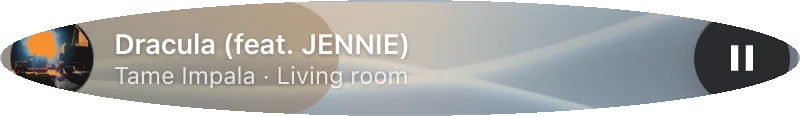
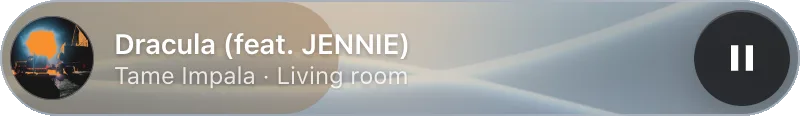
Media docs: the tile a pill again, one screensaver picture

diff --git a/docs/cards/media.md b/docs/cards/media.md
@@ -168,9 +168,7 @@ You can also use each half on its own: `show: player` for a player without the l
 
 `layout: screen` turns the player into a full-screen view made for the effect: the cover large over a slowly drifting blurred copy of itself, the song in big type, and the time and date in the corner (`clock: false` hides them). When nothing is playing, it shows a large clock instead. After five seconds without a touch the buttons and the cursor fade away; a touch brings them back, with play / pause as the largest button.
 
-![The screensaver](../images/media/screen.webp)
-
-![The screensaver after a touch](../images/media/screen-touch.webp)
+![The screensaver, right after a touch](../images/media/screen-touch.webp)
 
 ![On a phone](../images/media/screen-phone.webp "phone")
 
